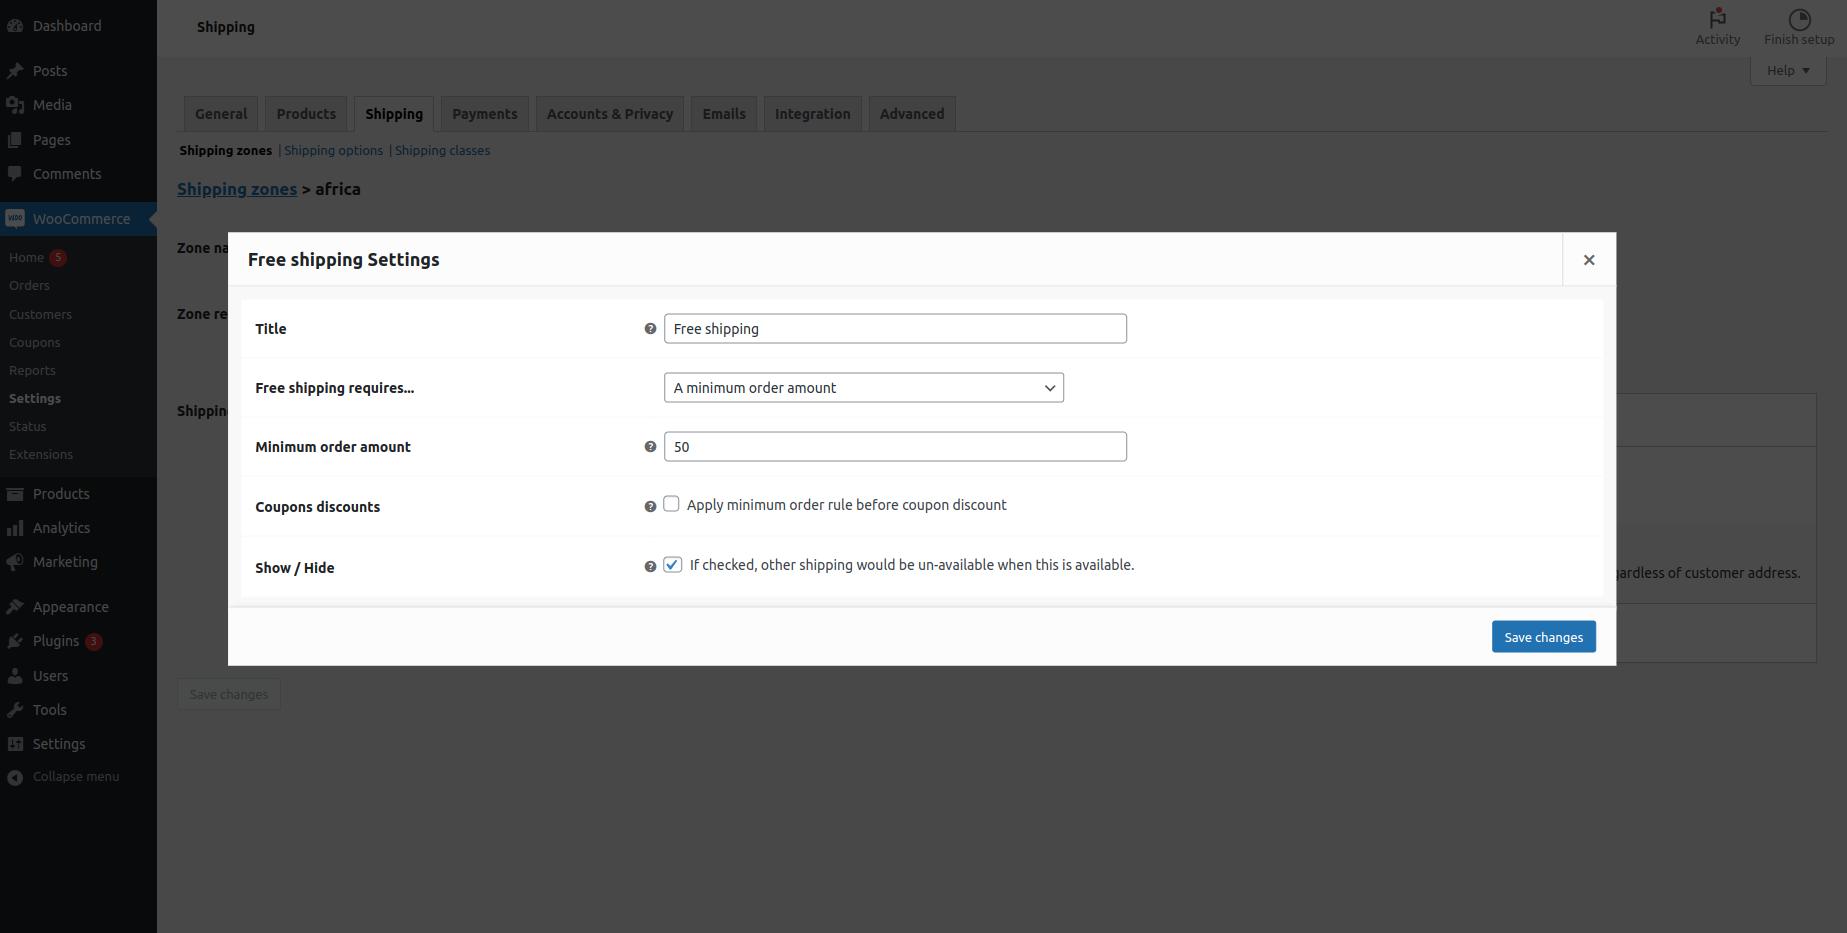
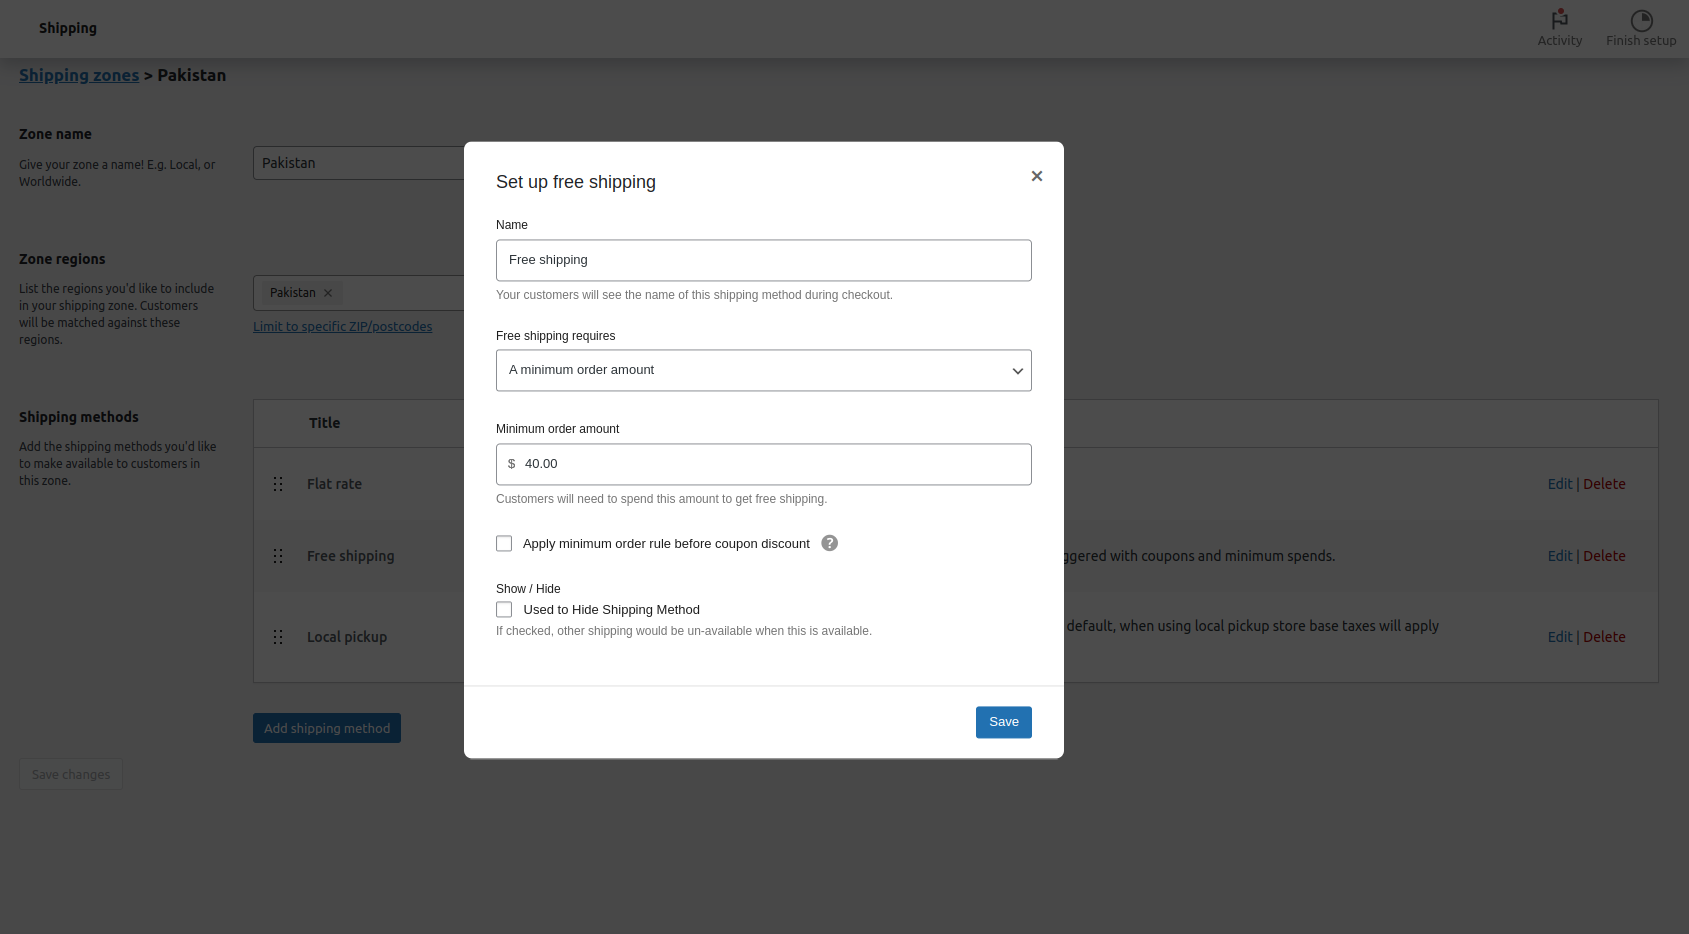
minor updates

diff --git a/shipping-option-conditions-wc.php b/shipping-option-conditions-wc.php
@@ -3,7 +3,7 @@
  * Plugin Name:       Shipping Option Conditions for WooCommerce
  * Plugin URI:        https://github.com/webzombies/shipping-option-conditions-wc 
  * Description:       Handle the basics shipping condition with this plugin
- * Version:           1.0.3
+ * Version:           1.0.4
  * Requires at least: 5.8
  * Requires PHP:      7.2
  * Author:            Haseeb Nawaz Awan
@@ -70,7 +70,7 @@ class HS_WCSH_Init{
 			'title' => 'Show / Hide',
 			'default' => 'Show / Hide',
 			'type' => 'checkbox',
-			'label' => 'If checked, other shipping would be un-available when this is available.',
+			'label' => 'Used to Hide Shipping Method',
 			'description' => 'If checked, other shipping would be un-available when this is available.',
 			'desc_tip'    => true,
 		];
@@ -91,7 +91,7 @@ class HS_WCSH_Init{
 			'title' => 'Show / Hide - Override',
 			'default' => 'Show / Hide - Override',
 			'type' => 'checkbox',
-			'label' => 'If checked, this shipping method will show even if Its hidden by free shipping.',
+			'label' => 'Used Override the Hidden Shipping Method',
 			'description' => 'If checked, this shipping method will show even if Its hidden by free shipping.',
 			'desc_tip'    => true,
 		];

diff --git a/README.md b/README.md
@@ -3,7 +3,7 @@
 Contributors: haseebnawaz298
 Tags: woocommerce, free shipping, local pickup, hide, hide shipping methods, hide shipping rates, force free shipping, hide other shipping methods, when free shipping, disable other shipping, keep local pickup
 Requires at least: 4.5.0
-Tested up to: 6.4.2
+Tested up to: 6.4.3
 Stable tag: 1.0.3
 WC requires at least: 3
 WC tested up to: 5.6.0
@@ -64,4 +64,10 @@ Submit a issue <a href="https://github.com/webzombies/shipping-option-conditions
 
 = 1.0.3 =
 * Updated the code into a Class
+* Added notice that WooCommerce is Required.
+
+= 1.0.4 =
+* Updated Screenshots
+* Update Options Labels
+* Update Tested upto
 * Added notice that WooCommerce is Required.
